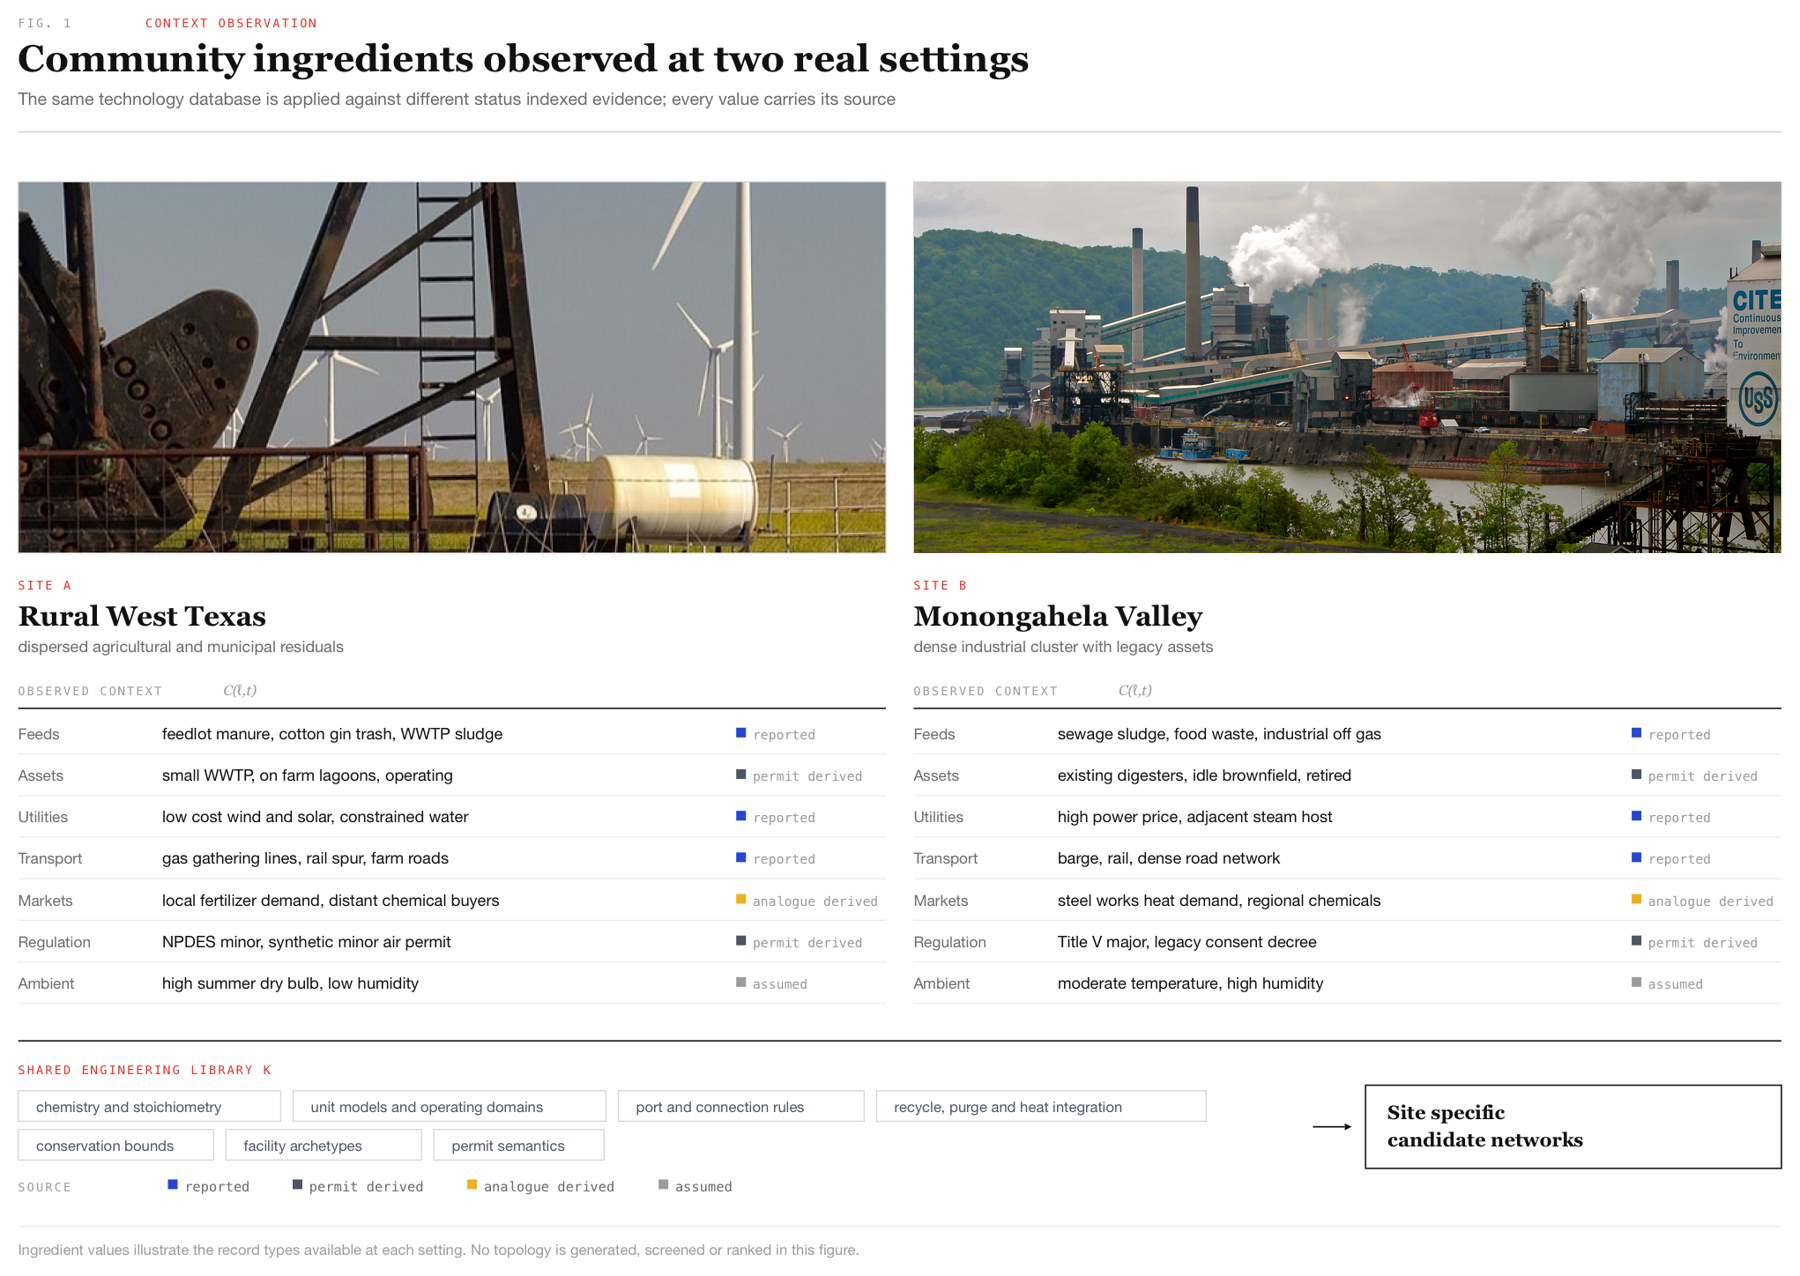
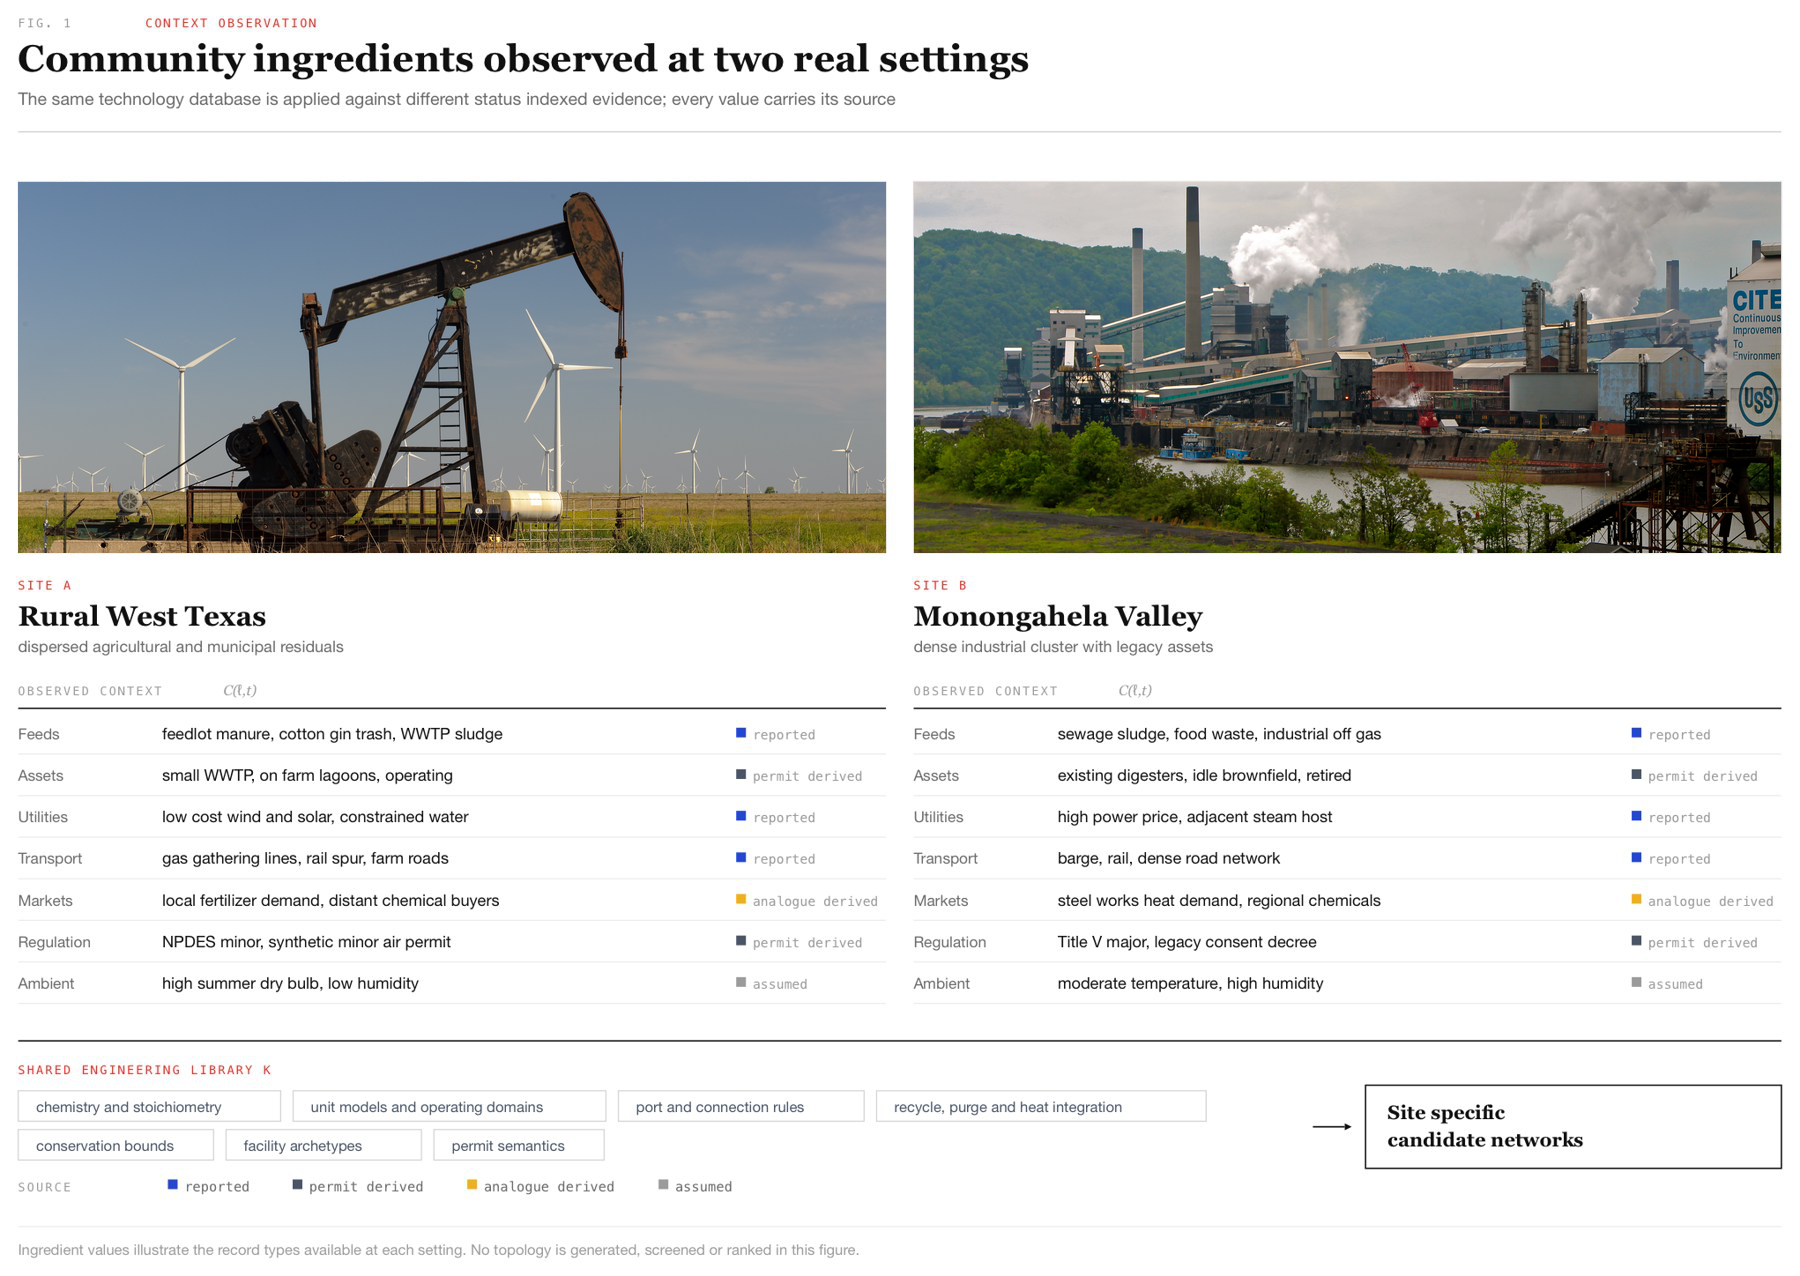
Widen West Texas photo to show the pumpjack and wind farm

Changed region(s): [[0.0, 0.1223, 0.4978, 0.4585]]

diff --git a/index.html b/index.html
@@ -44,7 +44,7 @@ World Bank. <a href="https://documents.worldbank.org/en/publication/documents-re
 <p>Most of what we use comes through a global supply chain. Raw materials are extracted in a few places, processed in large centralized plants and shipped everywhere else, and the waste ends up back in local communities. Process optimization has mostly been aimed at making that system more profitable for the companies that run it. I want to point the same tools at a different objective: lowering costs for the people who live somewhere, using public resources that are already there, like sewage and trash. My research asks where a local supply chain built on those resources can compete with the global one, and where it can't. Each local option is compared with the imported product delivered to the customer, freight included, and it may only draw on waste and renewable resources, never fossil feed.</p>
 <ul>
 <li id="allotrope"><p><b>Decision support for replacing imported products with local ones</b>. <i>Allotrope</i> is a tool that works out what a region could make for itself from its waste and renewable resources, and what that would cost compared with importing it. A geospatial pipeline turns public facility, wastewater, emissions and permitting records into a map of local sources, customers and infrastructure. <i>Allotrope</i> then generates every process route that could physically turn those sources into the products customers need. It combines them into one shared design problem and uses optimization to choose what to build, how large and how much to keep importing, at the lowest annual cost within the region's resource and policy limits. Allegheny County is the first case study, starting with hydrogen and ammonia as products.</p>
-<figure style="max-width:720px"><img src="images/community_ingredients_clairton.png?v=19be6f1" alt="Comparison of rural West Texas and the Monongahela Valley, with the signed Clairton Works plant shown across the river"><figcaption><b>Two settings, one engineering library.</b> The same engineering library applied to rural West Texas and the Monongahela Valley sees different feeds, assets, utilities, transport, markets and regulation, and every value carries its source. From my perspective paper (in preparation). Photographs: USDA NRCS Texas; <a href="https://commons.wikimedia.org/wiki/File:US_Steel_Clairton_Works,_Clairton_PA_(8900609120).jpg">Clairton Works by Roy Luck</a>, <a href="https://creativecommons.org/licenses/by/2.0/">CC BY 2.0</a>, cropped.</figcaption></figure>
+<figure style="max-width:720px"><img src="images/community_ingredients_clairton.png?v=32e93b256a5a" alt="Comparison of rural West Texas and the Monongahela Valley, with the signed Clairton Works plant shown across the river"><figcaption><b>Two settings, one engineering library.</b> The same engineering library applied to rural West Texas and the Monongahela Valley sees different feeds, assets, utilities, transport, markets and regulation, and every value carries its source. From my perspective paper (in preparation). Photographs: USDA NRCS Texas; <a href="https://commons.wikimedia.org/wiki/File:US_Steel_Clairton_Works,_Clairton_PA_(8900609120).jpg">Clairton Works by Roy Luck</a>, <a href="https://creativecommons.org/licenses/by/2.0/">CC BY 2.0</a>, cropped.</figcaption></figure>
 
 <figure style="max-width:560px"><img src="images/pittsburgh_network_build.gif" alt="Animation of 463 facilities around Pittsburgh grouping into 71 local hubs connected by 190 road routes"><figcaption><b>From sites to a network.</b> 463 active waste, wastewater and industrial sites around Pittsburgh are grouped into 71 local hubs, each under 8 km across, and linked to neighboring hubs along 190 routes on the real state road network, with natural gas pipelines in the background. The tool places sources and customers on a network like this and builds candidate routes between them. Built from EPA, PA DEP, HIFLD and PennDOT records.</figcaption></figure>
 
